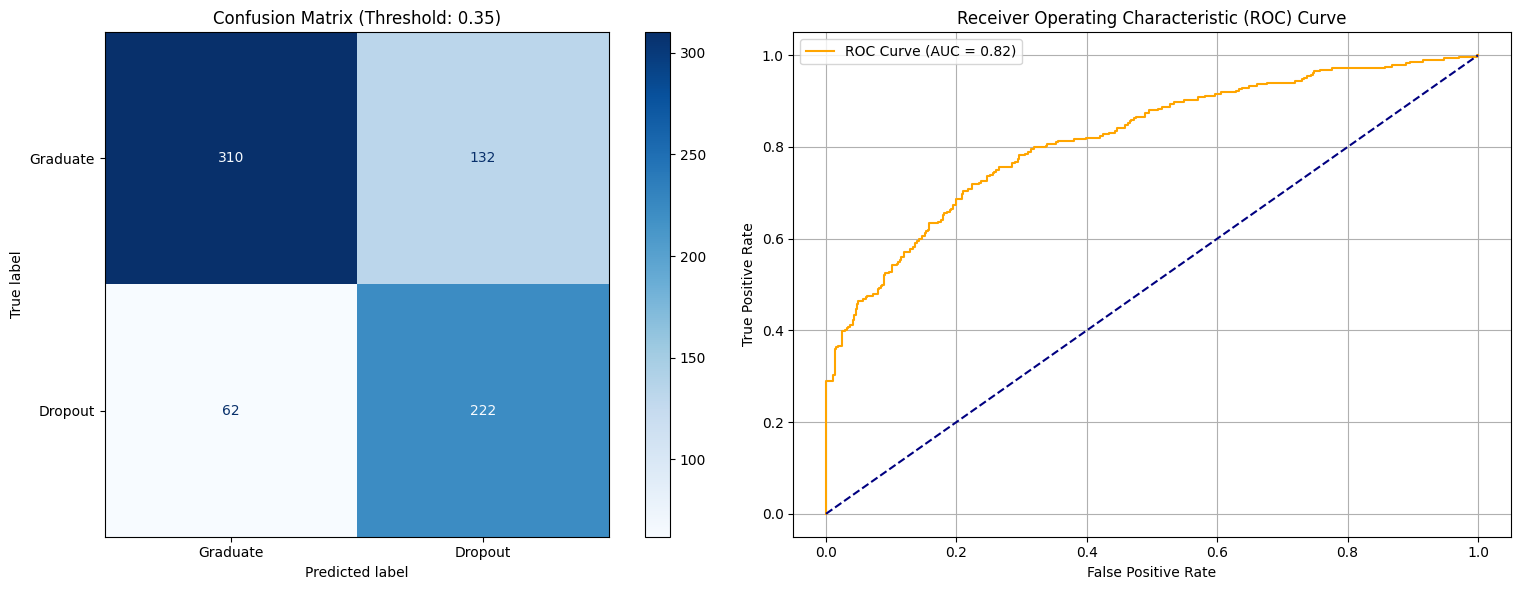
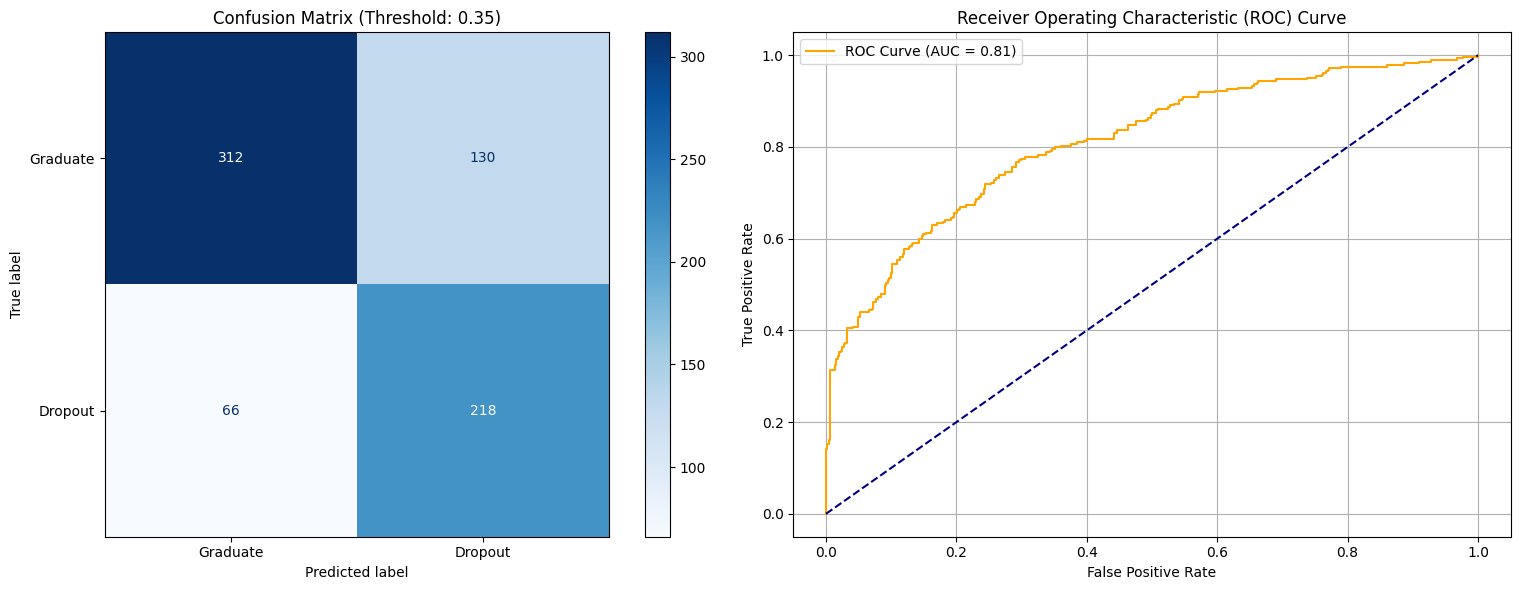
Update the evaluation plots and documentaion

diff --git a/README.md b/README.md
@@ -155,9 +155,9 @@ The model was implemented using Keras. It consists of a single output layer and 
 
 The model was evaluated with a threshold of **0.35**. The reason for selecting a relatively low threshold is to identify as many students at risk of dropping out as possible, as failing to take the necessary measures could negatively impact their academic careers and future opportunities. The tradeoff is a higher likelihood of generating false alarms and, consequently, misusing institutional resources.
 
-Across the training history of the model, we can observe that accuracy was often higher on the validation set than on the training set, while the validation loss remained lower than the training loss.
+Across the training history of the model, we can observe that the accuracy and loss of the validation were hand-in-hand with the one of the testing, sometimes oscillating around it. This means the model doesn't show signs of overfitting or underfitting.
 
-Another important observation is that accuracy oscillates noticeably around a central point. This behavior may indicate that the model is overcorrecting during training and suggests that, under the current configuration, the model does not require many epochs to reach its best performance.
+Another important observation is that accuracy increases quickly and stabilizies after a few epochs, which means the model isn't only learning meaningful patterns, but it also quickly converges into a stable solution, which means, given the current configuration and dataset, it's likely close to its performance ceiling. And because it reaches it quickly, 50 epochs is most likely unnecesary.
 
 <p align="center">
   <img src="./model accuracy loss history.png" alt="Model Accuracy and Loss History" width="90%" />
@@ -165,9 +165,9 @@ Another important observation is that accuracy oscillates noticeably around a ce
   <em>Figure 4. Training and validation accuracy and loss across epochs.</em>
 </p>
 
-The recall achieved for the **Dropout** class shows that the model successfully identifies approximately **78%** of the students who are actually at risk of dropping out. This comes at the cost of incorrectly labeling **132 out of 442 students** who actually belonged to the **Graduate** class.
+The recall achieved for the **Dropout** class shows that the model successfully identifies approximately **77%** of the students who are actually at risk of dropping out. This comes at the cost of incorrectly labeling **218 out of 284 students** who actually belonged to the **Graduate** class.
 
-On the other hand, the model achieved an **AUC of 0.82**, indicating a decent ability to distinguish between the target classes across different classification thresholds.
+On the other hand, the model achieved an **AUC of 0.81**, indicating a decent ability to distinguish between the target classes across different classification thresholds.
 
 <p align="center">
   <img src="./confusion matrix and roc.png" alt="Confusion Matrix and ROC" width="45%" />